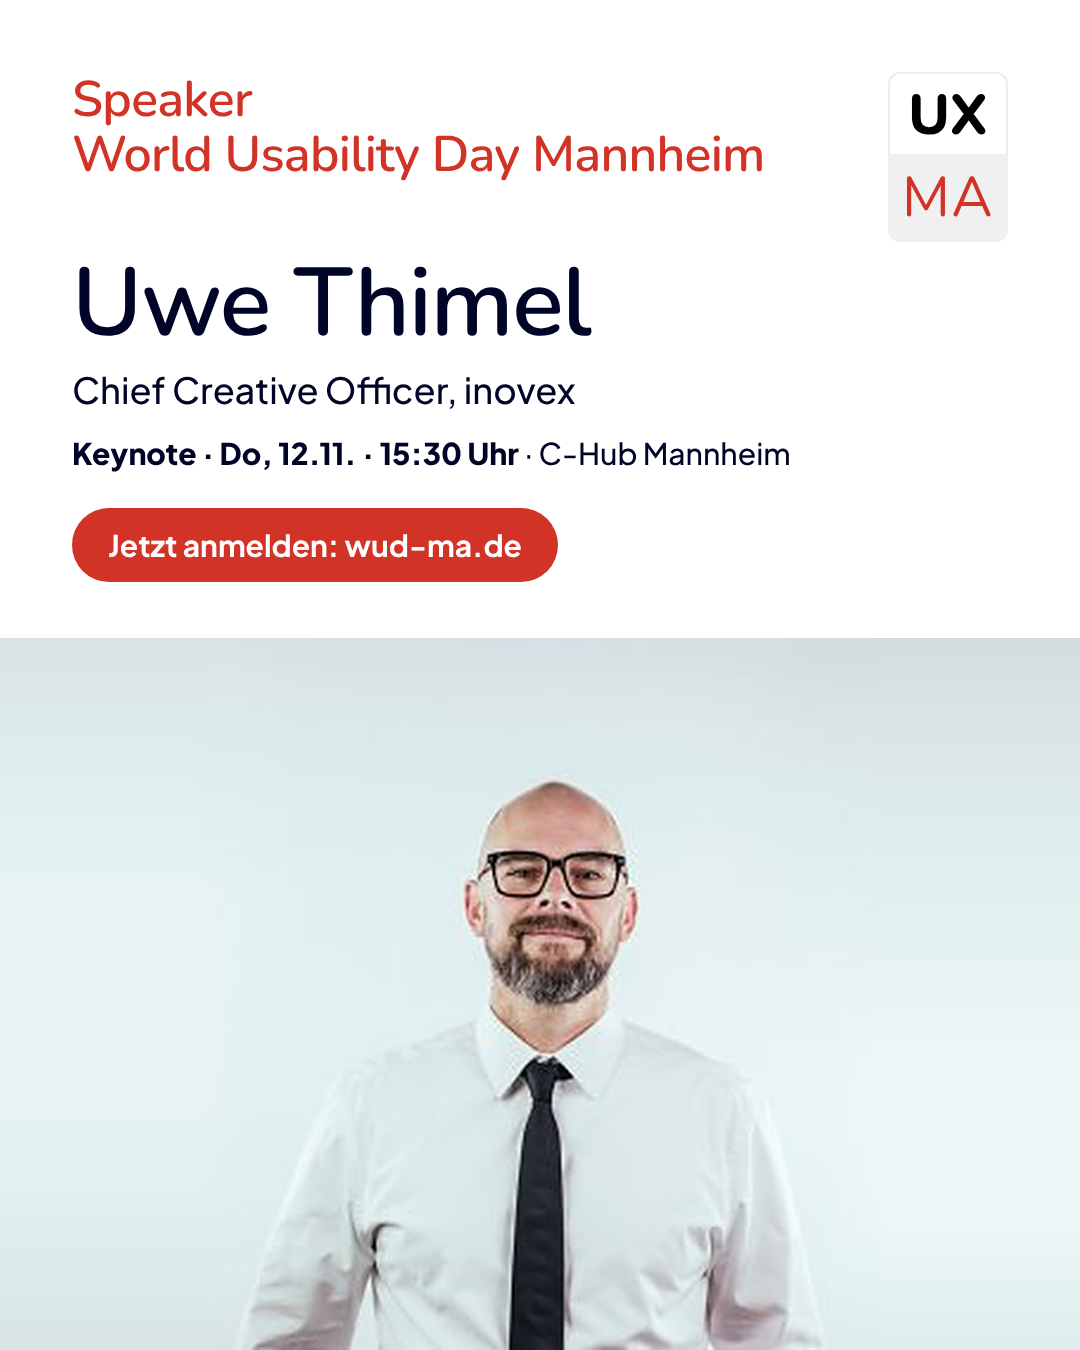
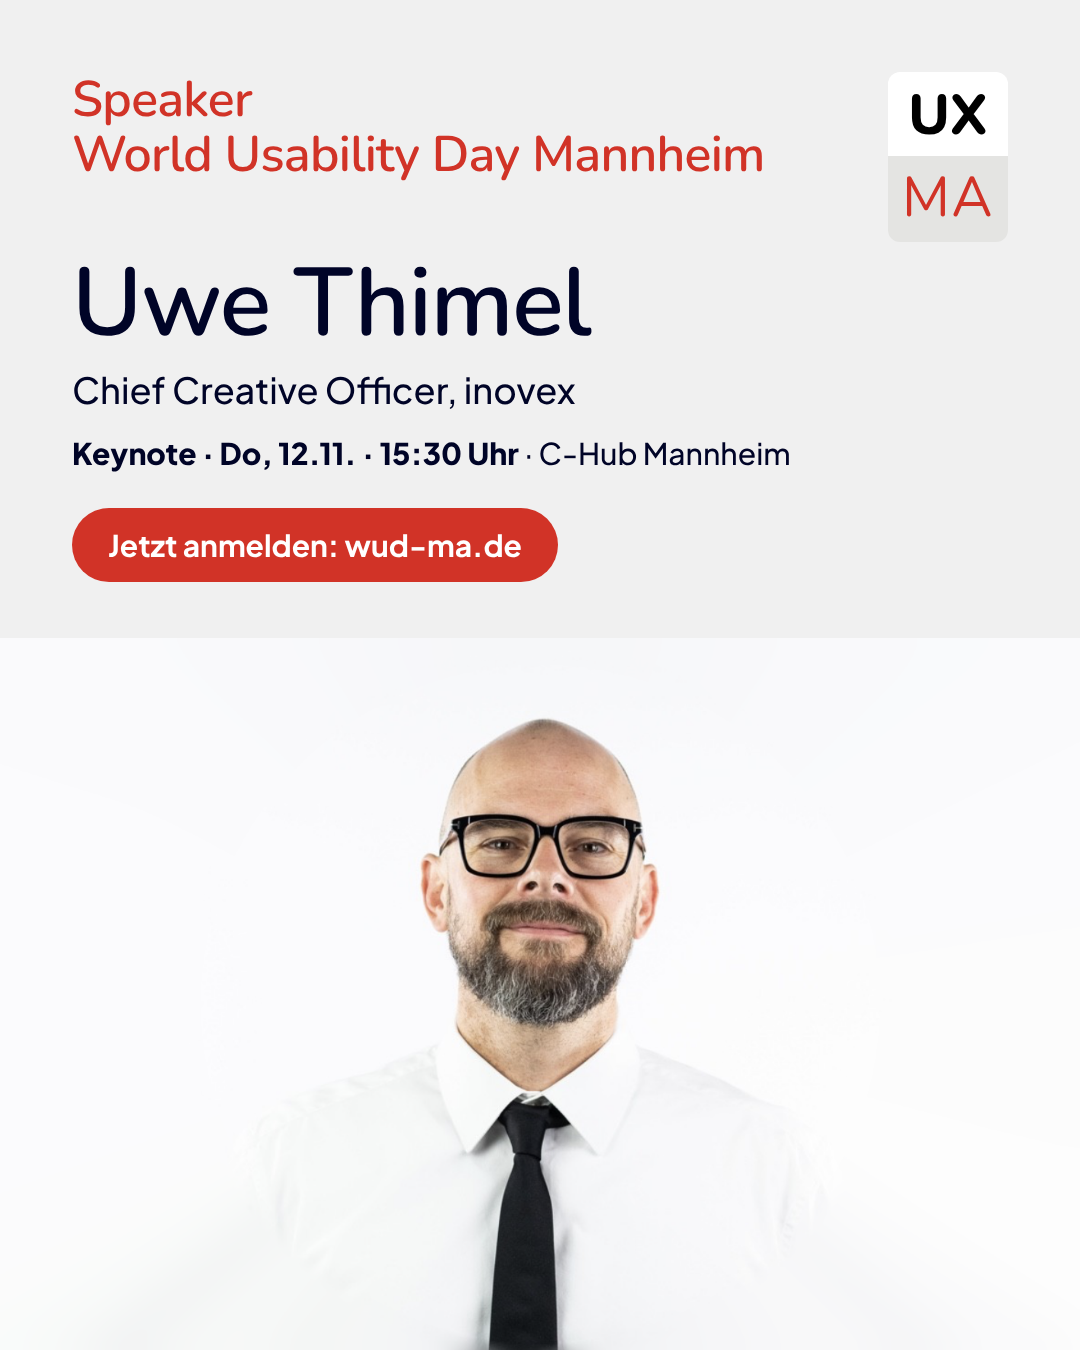
Keynote-Grafik: schärferes Foto (rundes Profilbild, Kreis in Weiß aufgelöst)
Claude-Session: https://claude.ai/code/session_01FdBpF3p1XTs9Kowkd1XXbf

diff --git a/assets/src/keynote-speaker.html b/assets/src/keynote-speaker.html
@@ -9,12 +9,12 @@
      Varianten per URL-Hash: #sw = Foto schwarz-weiß · #teilen = Button für den Speaker · kombinierbar (#sw-teilen) */
   body { width: 1080px; height: 1350px; background: var(--white); position: relative; display: flex; flex-direction: column; }
 
-  .top { position: relative; padding: 72px 72px 56px; }
+  .top { position: relative; padding: 72px 72px 56px; background: var(--grey); }
 
   /* UX-MA-Logo, nachgebaut */
   .uxma { position: absolute; right: 72px; top: 72px; width: 120px; text-align: center; font-family: var(--font-head); line-height: 1; }
-  .uxma .ux { background: var(--white); border-radius: 12px 12px 0 0; font-weight: 800; font-size: 56px; color: #000; padding: 16px 0 12px; box-shadow: inset 0 0 0 2px #EDEDEB; }
-  .uxma .ma { background: var(--grey); border-radius: 0 0 12px 12px; font-weight: 400; font-size: 56px; color: var(--red); padding: 14px 0 16px; letter-spacing: .03em; }
+  .uxma .ux { background: var(--white); border-radius: 12px 12px 0 0; font-weight: 800; font-size: 56px; color: #000; padding: 16px 0 12px; }
+  .uxma .ma { background: #E4E4E2; border-radius: 0 0 12px 12px; font-weight: 400; font-size: 56px; color: var(--red); padding: 14px 0 16px; letter-spacing: .03em; }
 
   .headline { font-size: 50px; color: var(--red); max-width: 790px; line-height: 1.1; }
   .name { margin-top: 72px; font-size: 96px; color: var(--navy); }
